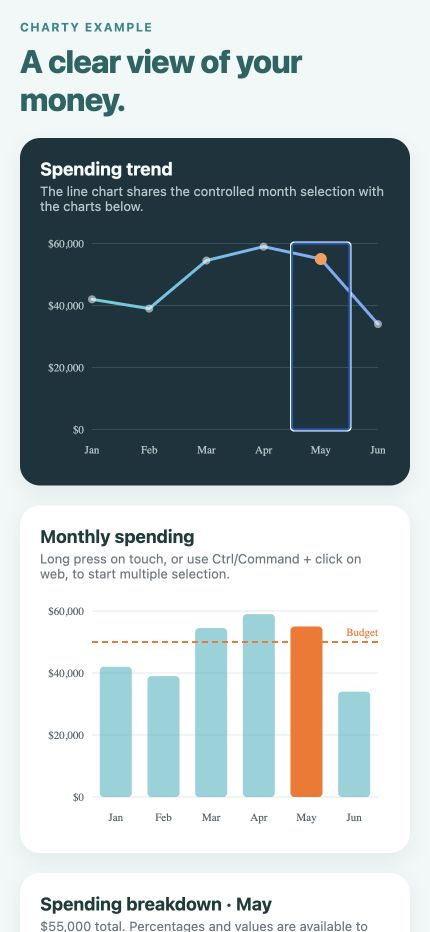
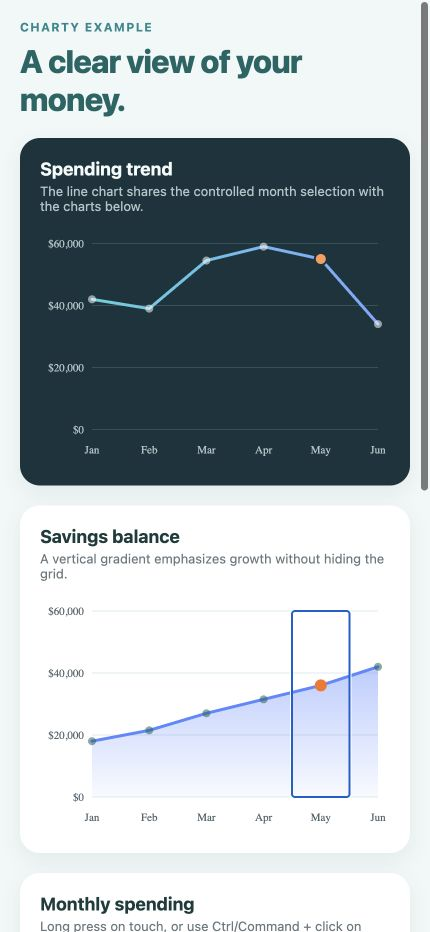
feat: add area chart

diff --git a/src/components/LineChart.tsx b/src/components/LineChart.tsx
@@ -28,6 +28,7 @@ import type {
   SharedChartProps,
 } from '../types';
 import {
+  createAreaPath,
   createLinearPath,
   defaultCartesianPadding,
   getCartesianFrame,
@@ -61,6 +62,13 @@ export interface LineChartProps extends SharedChartProps {
   onSelectionChange?: (indices: number[], event: LineChartSelectionEvent) => void;
 }
 
+export interface CartesianLineChartProps extends LineChartProps {
+  areaFill?: boolean;
+  areaFillColor?: string | undefined;
+  areaFillGradient?: ChartGradient | undefined;
+  areaFillOpacity?: number | undefined;
+}
+
 const PADDING = defaultCartesianPadding;
 
 function clampOpacity(value: number | undefined, fallback: number) {
@@ -68,7 +76,7 @@ function clampOpacity(value: number | undefined, fallback: number) {
   return Math.max(0, Math.min(1, value));
 }
 
-export function LineChart({
+export function CartesianLineChart({
   data,
   width,
   height = 240,
@@ -77,6 +85,10 @@ export function LineChart({
   pointRadius = 4,
   lineColor,
   lineGradient,
+  areaFill = false,
+  areaFillColor,
+  areaFillGradient,
+  areaFillOpacity,
   referenceLine,
   selectedIndex,
   selectedIndices,
@@ -89,12 +101,13 @@ export function LineChart({
   theme,
   onPointPress,
   onSelectionChange,
-}: LineChartProps) {
+}: CartesianLineChartProps) {
   const [measuredWidth, setMeasuredWidth] = useState(0);
   const [multipleSelectionActive, setMultipleSelectionActive] = useState(false);
   const suppressNextPress = useRef(false);
   const reactId = useId();
   const gradientId = `charty-line-${reactId.replace(/:/g, '')}`;
+  const areaGradientId = `charty-area-${reactId.replace(/:/g, '')}`;
   const colors = useMemo(() => resolveTheme(theme), [theme]);
   const chartWidth = width ?? measuredWidth;
   const safeData = useMemo(
@@ -113,6 +126,7 @@ export function LineChart({
     y: getYForValue(datum.value, scaleMaximum, plotHeight, PADDING),
   }));
   const path = createLinearPath(points);
+  const areaPath = createAreaPath(points, PADDING.top + plotHeight);
   const resolvedSelectedIndices = useMemo(
     () => selectedIndices ?? (selectedIndex === undefined ? [] : [selectedIndex]),
     [selectedIndex, selectedIndices]
@@ -186,20 +200,36 @@ export function LineChart({
             style={styles.accessibilitySummary}
           />
           <Svg width={chartWidth} height={height}>
-            {lineGradient ? (
+            {lineGradient || areaFillGradient ? (
               <Defs>
-                <LinearGradient id={gradientId} x1="0%" x2="100%" y1="0%" y2="0%">
-                  <Stop
-                    offset="0%"
-                    stopColor={lineGradient.startColor}
-                    stopOpacity={clampOpacity(lineGradient.startOpacity, 1)}
-                  />
-                  <Stop
-                    offset="100%"
-                    stopColor={lineGradient.endColor}
-                    stopOpacity={clampOpacity(lineGradient.endOpacity, 1)}
-                  />
-                </LinearGradient>
+                {lineGradient ? (
+                  <LinearGradient id={gradientId} x1="0%" x2="100%" y1="0%" y2="0%">
+                    <Stop
+                      offset="0%"
+                      stopColor={lineGradient.startColor}
+                      stopOpacity={clampOpacity(lineGradient.startOpacity, 1)}
+                    />
+                    <Stop
+                      offset="100%"
+                      stopColor={lineGradient.endColor}
+                      stopOpacity={clampOpacity(lineGradient.endOpacity, 1)}
+                    />
+                  </LinearGradient>
+                ) : null}
+                {areaFillGradient ? (
+                  <LinearGradient id={areaGradientId} x1="0%" x2="0%" y1="0%" y2="100%">
+                    <Stop
+                      offset="0%"
+                      stopColor={areaFillGradient.startColor}
+                      stopOpacity={clampOpacity(areaFillGradient.startOpacity, 0.4)}
+                    />
+                    <Stop
+                      offset="100%"
+                      stopColor={areaFillGradient.endColor}
+                      stopOpacity={clampOpacity(areaFillGradient.endOpacity, 0.04)}
+                    />
+                  </LinearGradient>
+                ) : null}
               </Defs>
             ) : null}
 
@@ -227,6 +257,22 @@ export function LineChart({
                 </React.Fragment>
               );
             })}
+
+            {areaFill ? (
+              <Path
+                d={areaPath}
+                fill={
+                  areaFillGradient
+                    ? `url(#${areaGradientId})`
+                    : areaFillColor ?? resolvedLineColor
+                }
+                fillOpacity={clampOpacity(
+                  areaFillOpacity,
+                  areaFillGradient ? 1 : 0.18
+                )}
+                stroke="none"
+              />
+            ) : null}
 
             <Path
               d={path}
@@ -350,6 +396,10 @@ export function LineChart({
       ) : null}
     </View>
   );
+}
+
+export function LineChart(props: LineChartProps) {
+  return <CartesianLineChart {...props} />;
 }
 
 const styles = StyleSheet.create({

diff --git a/example/App.tsx b/example/App.tsx
@@ -1,6 +1,7 @@
 import React, { useState } from 'react';
 import { SafeAreaView, ScrollView, StyleSheet, Text, View } from 'react-native';
 import {
+  AreaChart,
   BarChart,
   DonutChart,
   LineChart,
@@ -10,6 +11,7 @@ import {
   aggregateBreakdowns,
   monthlyData,
   resolveSelectionIndices,
+  savingsData,
 } from './data';
 
 const currency = new Intl.NumberFormat('en-US', {
@@ -51,6 +53,28 @@ export default function App() {
             selectedIndices={selectedIndices}
             selectionBehavior="multiple"
             theme={darkChartTheme}
+          />
+        </View>
+
+        <View style={styles.card}>
+          <Text style={styles.cardTitle}>Savings balance</Text>
+          <Text style={styles.cardCaption}>
+            A vertical gradient emphasizes growth without hiding the grid.
+          </Text>
+          <AreaChart
+            accessibilityLabel="Savings balance by month"
+            data={savingsData}
+            fillGradient={{
+              startColor: '#5A88FF',
+              endColor: '#5A88FF',
+              startOpacity: 0.42,
+              endOpacity: 0.04,
+            }}
+            formatValue={currency.format}
+            lineColor="#5A88FF"
+            onSelectionChange={setSelectedIndices}
+            selectedIndices={selectedIndices}
+            selectionBehavior="multiple"
           />
         </View>
 

diff --git a/src/components/AreaChart.tsx b/src/components/AreaChart.tsx
@@ -1,0 +1,35 @@
+import React from 'react';
+import type { ChartGradient } from '../types';
+import {
+  CartesianLineChart,
+  type LineChartProps,
+  type LineChartSelectionEvent,
+} from './LineChart';
+
+export type AreaChartSelectionEvent = LineChartSelectionEvent;
+
+export interface AreaChartProps extends LineChartProps {
+  /** Solid fill used below the line when fillGradient is not supplied. */
+  fillColor?: string;
+  /** Vertical top-to-bottom gradient used below the line. */
+  fillGradient?: ChartGradient;
+  /** Opacity applied to the full filled area. */
+  fillOpacity?: number;
+}
+
+export function AreaChart({
+  fillColor,
+  fillGradient,
+  fillOpacity,
+  ...props
+}: AreaChartProps) {
+  return (
+    <CartesianLineChart
+      {...props}
+      areaFill
+      areaFillColor={fillColor}
+      areaFillGradient={fillGradient}
+      areaFillOpacity={fillOpacity}
+    />
+  );
+}

diff --git a/tests/scales.test.ts b/tests/scales.test.ts
@@ -1,5 +1,6 @@
 import { describe, expect, it } from 'vitest';
 import {
+  createAreaPath,
   createLinearPath,
   getCartesianFrame,
   getXForPoint,
@@ -58,5 +59,19 @@ describe('cartesian coordinates', () => {
         { x: 252, y: 18 },
       ])
     ).toBe('M 52 218 L 152 118 L 252 18');
+  });
+
+  it('closes an area path against its baseline', () => {
+    expect(
+      createAreaPath(
+        [
+          { x: 52, y: 218 },
+          { x: 152, y: 118 },
+          { x: 252, y: 18 },
+        ],
+        218
+      )
+    ).toBe('M 52 218 L 152 118 L 252 18 L 252 218 L 52 218 Z');
+    expect(createAreaPath([], 218)).toBe('');
   });
 });

diff --git a/example/data.ts b/example/data.ts
@@ -29,6 +29,15 @@ export const monthlyData = [
   { label: 'Jun', value: 34_000, breakdown: createBreakdown(34_000, [0.44, 0.24, 0.17, 0.15]) },
 ];
 
+export const savingsData = [
+  { label: 'Jan', value: 18_000 },
+  { label: 'Feb', value: 21_500 },
+  { label: 'Mar', value: 27_000 },
+  { label: 'Apr', value: 31_500 },
+  { label: 'May', value: 36_000 },
+  { label: 'Jun', value: 42_000 },
+];
+
 export function resolveSelectionIndices(indices: readonly number[]) {
   return indices.length > 0 ? indices : monthlyData.map((_, index) => index);
 }

diff --git a/src/utils/cartesian.ts b/src/utils/cartesian.ts
@@ -59,3 +59,14 @@ export function createLinearPath(points: readonly { x: number; y: number }[]) {
     .map(({ x, y }, index) => `${index === 0 ? 'M' : 'L'} ${x} ${y}`)
     .join(' ');
 }
+
+export function createAreaPath(
+  points: readonly { x: number; y: number }[],
+  baseline: number
+) {
+  const firstPoint = points[0];
+  const lastPoint = points[points.length - 1];
+  if (!firstPoint || !lastPoint) return '';
+
+  return `${createLinearPath(points)} L ${lastPoint.x} ${baseline} L ${firstPoint.x} ${baseline} Z`;
+}

diff --git a/src/components/index.ts b/src/components/index.ts
@@ -6,6 +6,11 @@ export {
 export { DonutChart, PieChart, type DonutChartProps } from './DonutChart';
 export type { BarChartSelectionBehavior } from '../utils/selection';
 export {
+  AreaChart,
+  type AreaChartProps,
+  type AreaChartSelectionEvent,
+} from './AreaChart';
+export {
   LineChart,
   type LineChartProps,
   type LineChartSelectionEvent,

diff --git a/README.md b/README.md
@@ -30,7 +30,7 @@ These screenshots come from the local Expo example used to validate the same
 components bundled for iOS and Android.
 
 <p align="center">
-  <img src="./docs/images/charty-line-chart.png" alt="Charty React Native gallery with a dark gradient line chart, bar chart, and coordinated spending breakdown" width="430" />
+  <img src="./docs/images/charty-line-chart.png" alt="Charty React Native gallery with coordinated gradient line and area charts" width="430" />
 </p>
 
 | January selected | April selected |
@@ -45,7 +45,7 @@ components bundled for iOS and Android.
 - Empty and invalid data handling
 - Theme, color, number, and currency customization
 - Built-in light and dark themes
-- Optional line gradients
+- Optional line and area gradients
 - Controlled single and opt-in long-press multiple selection
 - React Native CLI and Expo compatibility through `react-native-svg`
 
@@ -93,7 +93,7 @@ export function MonthlyBudget() {
 
 ## Controlled selection
 
-`BarChart` and `LineChart` do not own the selected values. Pass
+`BarChart`, `LineChart`, and `AreaChart` do not own the selected values. Pass
 `selectedIndices` and update them from `onSelectionChange`. In the default
 `single` behavior, pressing the selected value again clears the selection:
 
@@ -209,6 +209,36 @@ theme.
 | `lineGradient` | `ChartGradient` | — | Applies a horizontal start-to-end color gradient. |
 | `referenceLine` | `ReferenceLine` | — | Adds a labelled comparison line. |
 
+## Area chart
+
+`AreaChart` extends the line-chart API with a fill below the series. Use a
+solid color or a vertical gradient while keeping the same controlled selection
+behavior:
+
+```tsx
+import { AreaChart } from '@dansalomon/charty';
+
+<AreaChart
+  accessibilityLabel="Savings balance by month"
+  data={savings}
+  fillGradient={{
+    startColor: '#5A88FF',
+    endColor: '#5A88FF',
+    startOpacity: 0.42,
+    endOpacity: 0.04,
+  }}
+  lineColor="#5A88FF"
+  onSelectionChange={setSelectedIndices}
+  selectedIndices={selectedIndices}
+/>
+```
+
+| Prop | Type | Default | Description |
+| --- | --- | --- | --- |
+| `fillColor` | `string` | Line color | Solid color below the line. |
+| `fillGradient` | `ChartGradient` | — | Vertical top-to-bottom fill gradient. |
+| `fillOpacity` | `number` | `0.18` | Opacity of a solid fill, clamped from 0 to 1. |
+
 ## Themes
 
 The presets are ordinary theme objects and can be extended without replacing
@@ -286,7 +316,7 @@ npm install
 npm run verify
 ```
 
-The Expo app in [`example`](./example) demonstrates all three charts with responsive
+The Expo app in [`example`](./example) demonstrates all four charts with responsive
 cards, localized currency formatting, and single or multiple controlled
 selection.
 

diff --git a/CHANGELOG.md b/CHANGELOG.md
@@ -9,6 +9,8 @@ All notable changes to Charty are documented here. The project follows
 
 - Responsive and accessible `LineChart` with controlled single or multiple
   selection.
+- Responsive `AreaChart` with solid or vertical gradient fills and the same
+  controlled selection API.
 - Optional horizontal line gradients and point customization.
 - Exported light and dark theme presets through `chartThemes`,
   `lightChartTheme`, and `darkChartTheme`.
